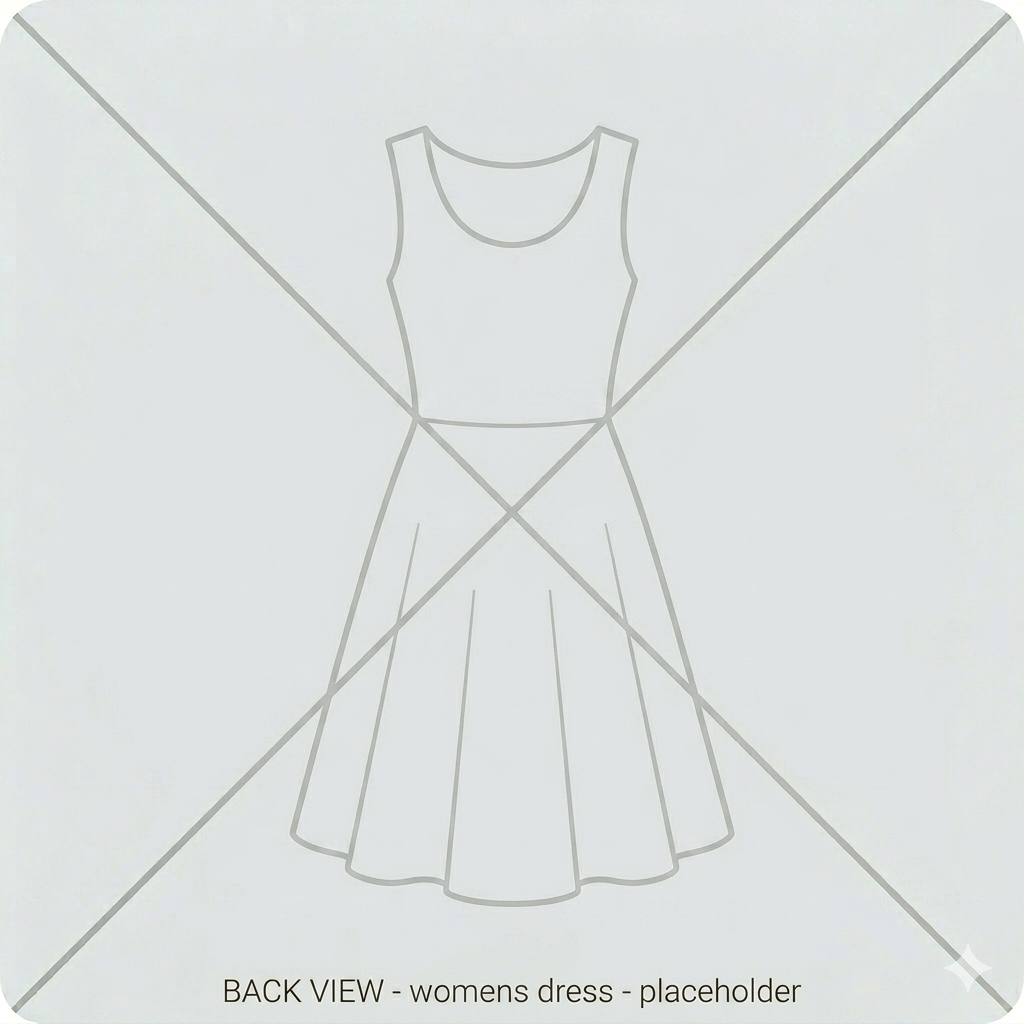
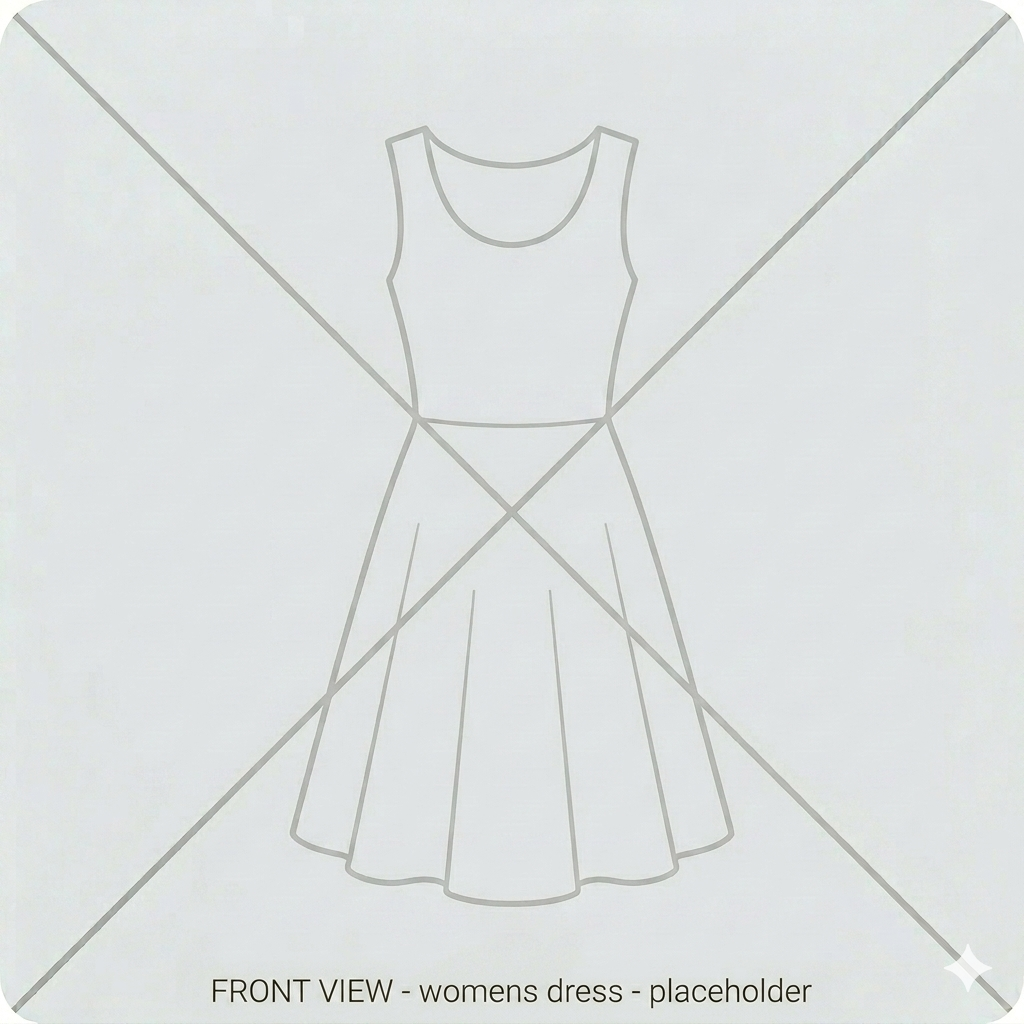
Added add product function

Changed region(s): [[0.2188, 0.9375, 0.7812, 1.0]]

diff --git a/templates/pages/add_new_products.html b/templates/pages/add_new_products.html
@@ -2,21 +2,45 @@
 <section>
   <div>
     <h3>Add a new product</h3>
-    <form action="/add_new_products" method="post">
+    {% if message %}
+    <p>{{message}}</p>
+    {% endif %}
+    <form
+      action="/add_new_products"
+      method="post"
+      enctype="multipart/form-data"
+      accept="image/*"
+    >
+      <!-- the enctype I have included as instructed by ChatGPT as this is what helps the backend (flask) recieve each file as there is also more than one I also added the acept="image/*" to prevent none image uploads (CHATGPT recommended) -->
       <label for="product_name">Product Name:</label>
       <input type="text" name="name" />
+
       <label for="description">Description</label>
-      <input type="text" name="description" />
-      <label for="product_gender">Gender</label>
-      <input type="text" name="gender" />
-      <label for="product_description">Category</label>
+      <input type="textarea" name="description" rows="5" cols="50" />
+
+      <label for="gender">Gender</label>
+      <select name="gender" id="gender">
+        <option value="Men">Men</option>
+        <option value="Women">Women</option>
+        <option value="Children">Children</option>
+        <option value="Unisex">Unisex</option>
+      </select>
+
+      <label for="category">Category</label>
       <input type="text" name="category" />
-      <label for="product_brand">Brand</label>
+
+      <label for="price">Price</label>
+      <input type="number" name="price" step="0.01" />
+
+      <label for="brand">Brand</label>
       <input type="" name="brand" />
-      <label for="product_description">Stock Quantity</label>
+
+      <label for="quantity">Stock Quantity</label>
       <input type="text" name="quantity" />
+
       <label for="image">Upload product images</label>
-      <input type="image" name="image" />
+      <input type="file" name="image" multiple />
+
       <input type="submit" value="Add product" />
     </form>
   </div>

diff --git a/templates/pages/dashboard.html b/templates/pages/dashboard.html
@@ -1,22 +1,18 @@
 {% extends 'layout.html' %} {% block content %}
 <section>
-  <div class="container">
-    <h3 class="p-5 text-center">Admin Dashboard</h3>
-    <div class="flex justify-center">
-      <p>Sales Stats</p>
-    </div>
-    <div class="flex flex-col items-center justify-center">
-      <p>Options:</p>
-      <div class="row-span-2 grid grid-cols-2 gap-5">
-        <div class="card p-1 text-center">
-          <p class="font-bold">Add New Products</p>
-        </div>
-        <div class="card p-1 text-center">
-          <p class="font-bold">Modify Products</p>
-        </div>
-        <div class="card p-1 text-center">
-          <p class="font-bold">Add New Admin</p>
-        </div>
+  <div class="flex flex-col">
+    <h3>Admin Dashboard</h3>
+    <p>Welcome {{username}}</p>
+    <p>What would you like to do?</p>
+    <div>
+      <div class="shadowcard">
+        <a href=" {{url_for('add_new_products')}} ">Add new products</a>
+      </div>
+      <div class="shadowcard">
+        <a href=" {{url_for('add_new_products')}} ">Modify products</a>
+      </div>
+      <div class="shadowcard">
+        <a href=" {{url_for('add_new_products')}} ">Add Admin User</a>
       </div>
     </div>
   </div>

diff --git a/static/css/output.css b/static/css/output.css
@@ -188,27 +188,6 @@
   .z-50 {
     z-index: 50;
   }
-  .row-span-2 {
-    grid-row: span 2 / span 2;
-  }
-  .container {
-    width: 100%;
-    @media (width >= 40rem) {
-      max-width: 40rem;
-    }
-    @media (width >= 48rem) {
-      max-width: 48rem;
-    }
-    @media (width >= 64rem) {
-      max-width: 64rem;
-    }
-    @media (width >= 80rem) {
-      max-width: 80rem;
-    }
-    @media (width >= 96rem) {
-      max-width: 96rem;
-    }
-  }
   .mt-1 {
     margin-top: calc(var(--spacing) * 1);
   }
@@ -223,9 +202,6 @@
   }
   .flex {
     display: flex;
-  }
-  .grid {
-    display: grid;
   }
   .hidden {
     display: none;
@@ -285,9 +261,6 @@
   .translate-x-full {
     --tw-translate-x: 100%;
     translate: var(--tw-translate-x) var(--tw-translate-y);
-  }
-  .grid-cols-2 {
-    grid-template-columns: repeat(2, minmax(0, 1fr));
   }
   .flex-col {
     flex-direction: column;

diff --git a/app.py b/app.py
@@ -65,7 +65,7 @@ def admin():
         admin, error = admin_login_function(username, password)
         if admin:
             session.clear()
-            session["user_id"] = admin["admin_id"]
+            session["admin_id"] = admin["admin_id"]
             session.permanent = True
             return redirect(url_for("dashboard"))
         message = error
@@ -76,6 +76,60 @@ def admin():
 @admin_required
 def add_new_products():
     title = "Add new products"
+    if request.method == "POST":
+        connection = connect_db()
+        cursor = connection.cursor()
+        name = request.form.get("name")
+        description = request.form.get("description")
+        gender = request.form.get("gender")
+        category = request.form.get("category")
+        price = request.form.get("price")
+        brand = request.form.get("brand")
+        qty = request.form.get("quantity")
+        cursor.execute(
+            """
+            INSERT INTO products 
+            (
+            product_name, 
+            product_description, 
+            product_price, 
+            product_category, 
+            product_brand, 
+            product_stock_qty, 
+            product_gender, 
+            product_created_at
+            ) 
+            VALUES (?, ?, ?, ?, ?, ?, ?, ?);
+            """,
+            (
+                name,
+                description,
+                price,
+                category,
+                brand,
+                qty,
+                gender,
+                now,
+            ),
+        )
+        connection.commit()
+        product_id = cursor.lastrowid
+        images = request.files.getlist("image")
+        for image in images:
+            if image.filename == "":
+                continue
+            upload = cloudinary.uploader.upload(image, folder="MONO_Products")
+            image_url = upload["secure_url"]
+            cursor.execute(
+                """INSERT INTO product_images (product_id, image_url) VALUES (?, ?);""",
+                (
+                    product_id,
+                    image_url,
+                ),
+            )
+            connection.commit()
+        connection.close()
+        return redirect(url_for("dashboard"))
     return render_template("pages/add_new_products.html", title=title)
 
 
@@ -83,11 +137,16 @@ def add_new_products():
 @admin_required
 def dashboard():
     title = "Admin Dashboard"
-    admin_id = session["user_id"]
     connection = connect_db()
     cursor = connection.cursor()
+    cursor.execute(
+        """SELECT * FROM admins WHERE admin_id = ?;""", (session["admin_id"],)
+    )
+    admin = cursor.fetchone()
     connection.close()
-    return render_template("pages/dashboard.html", title=title)
+    return render_template(
+        "pages/dashboard.html", title=title, username=admin["username"]
+    )
 
 
 @app.route("/about")

diff --git a/helpers.py b/helpers.py
@@ -10,7 +10,7 @@ from functools import wraps
 def admin_required(f):
     @wraps(f)
     def decorated_function(*args, **kwargs):
-        if not session.get("user_id"):
+        if not session.get("admin_id"):
             return redirect("/admin")
 
         return f(*args, **kwargs)